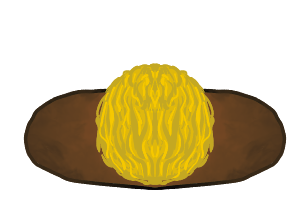
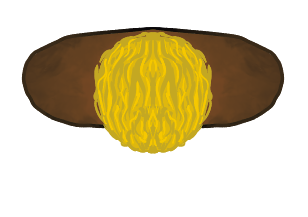
Animation Progress

diff --git a/My project/Assets/Scripts/PlayerMovement.cs b/My project/Assets/Scripts/PlayerMovement.cs
@@ -17,6 +17,7 @@ public class PlayerMovement : MonoBehaviour
     [SerializeField] float dashPower;
     [SerializeField] float dashTime;
     [SerializeField] float dashCooldown;
+    [SerializeField] Animation playerAnimation;
     [SerializeField] List<Image> uiImagesOfMasks = new List<Image>();
     [SerializeField] List<Image> uiImagesOfMasksBG = new List<Image>();
     List<ItemBaseClass> items = new List<ItemBaseClass>();
@@ -28,14 +29,15 @@ public class PlayerMovement : MonoBehaviour
     float vertical;
     Rigidbody2D rb;
     HealthSystem health;
+   
     Color colorBase;
     public void AddItemToInventory(ItemBaseClass item)
     {
         if (items.Count < 3)
         {
             items.Add(item);
-            //uiImagesOfMasks[items.Count - 1].sprite = item.maskImage;
-            //uiImagesOfMasks[items.Count - 1].color = Color.white;
+            uiImagesOfMasks[items.Count - 1].sprite = item.maskImage;
+            uiImagesOfMasks[items.Count - 1].color = Color.white;
         }
         else
         {
@@ -44,7 +46,7 @@ public class PlayerMovement : MonoBehaviour
     }
     private void Awake()
     {
-        //colorBase = uiImagesOfMasksBG[0].color;
+        colorBase = uiImagesOfMasksBG[0].color;
         rb = GetComponent<Rigidbody2D>();
         _baseDashCooldown = dashCooldown;
         _baseSpeed = speed;
@@ -70,10 +72,17 @@ public class PlayerMovement : MonoBehaviour
             StartCoroutine(Dash());
         }
         HandelKeyInventoryDown();
-        //if (Time.timeScale == 0)
-        //{
+
         transform.position += (Vector3)movementDirection * speed * Time.unscaledDeltaTime;
-        //}
+        if(movementDirection != Vector2.zero)
+        {
+            playerAnimation.Play();
+        }
+        else
+        {
+            playerAnimation.Stop();
+            playerSpriteRenderer.sprite = playerSprite;
+        }
         Vector2 mousePos = Camera.main.ScreenToWorldPoint(Input.mousePosition);
         Vector2 dir = new Vector2(transform.position.x - mousePos.x, transform.position.y - mousePos.y);
         transform.up = dir;
@@ -165,7 +174,7 @@ public class PlayerMovement : MonoBehaviour
         for (int i = 0; i < items.Count; i++)
         {
             items[i].OnItemChange(i == index);
-            //uiImagesOfMasksBG[i].color = i == index ? new Color32(255, 60, 50, 100) : colorBase;
+            uiImagesOfMasksBG[i].color = i == index ? new Color32(255, 60, 50, 100) : colorBase;
 
         }
     }
